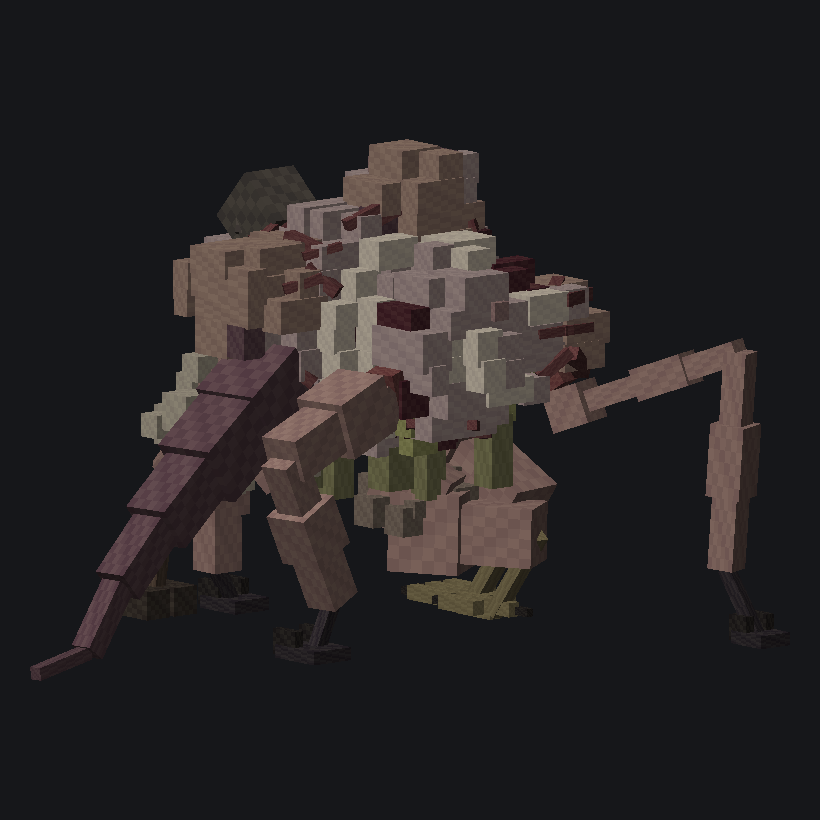
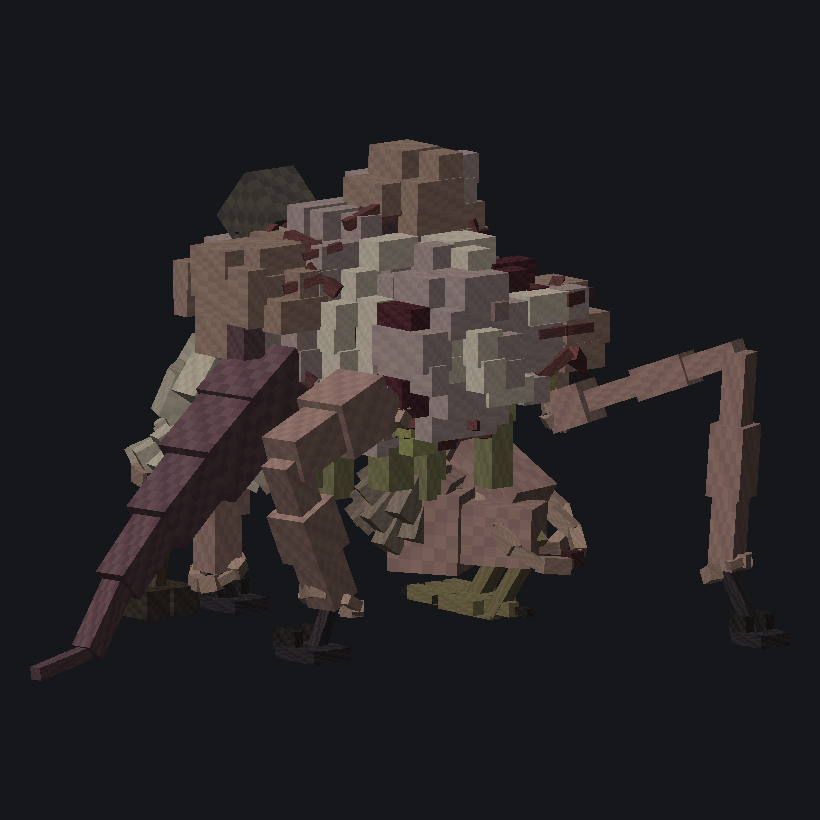
异变缝合兽：腿毛重做成有毛流的排列 + 缝上去的疤
用户看图的评价："腿毛看着好乱，没有规律"、"这么秃"、"缺点疤痕之类的"。三条都对。

**毛流。** 第一版把毛做成随机撒在柱面上的小方块——那是碎石不是毛。真实的毛有两条结构：
每一根顺着肢体往远端躺（外加一点翘起才离得开皮），并且一圈一圈往下排、相邻两圈错开
半个间距像瓦片互相压住。所以改成沿轴向的短柱、按环排布，抖动只动长度和翘角，不动排布。
规律感来自交错的环，不来自随机。

**秃。** 覆盖范围和密度都提了：兽毛 4 环 × 7 束一直盖到掌骨，羊毛 4×8 又粗又密结成团，
猪鬃 5×4 又稀又硬又长，禽的覆羽 3×7 只到大腿（跗跖骨本来就是裸鳞）。

**疤。** 位置不是画的：接合痕在挂载点那一圈，**交界痕在本体新肉与供体组织的分界上**
——那个分界材质表早就算过了（`Limb.mats` 里 graft 变成 hide/scute/chitin 的那一节），
肉长到哪儿为止，痕就在哪儿。做法沿用核心那身癒合痕的读法：不是外科缝合，没有线没有
等距横扣，粗细逐段变、约一成断开（融合彻底处无痕）、偶尔堆一个肉瘤。

另修：肢上的肉瘤原本也叫 `wart_`，和核心的撞了前缀，站高自检把腿上的疤当成核心底面，
误报"核心压到地面"。改叫 `snarl_`。块数预算 760 → 900（毛和疤是这一轮加的）。

seed 1–12 十二只十项自检全过。力学层（limbs / locomotion / genome）本次未动，
check_gait 12/12 与 check_limbs 40 条承重肢的结果沿用上一轮。

Model: claude-opus-5

diff --git a/scripts/models/stitched_beast/gen_beast.py b/scripts/models/stitched_beast/gen_beast.py
@@ -77,13 +77,6 @@ def part_limbs(rig: Rig, limbs: dict[str, LB.Limb]) -> int:
     for lb in limbs.values():
         s = lb.sock
         base = f"limb_{s.name}_0"
-        # 接合痕：皮上一圈看得见的隆起，半径由**剪切传力**所需的面积给出（一两像素）。
-        # 这里曾经画的是一个"把载荷摊开"的大癒合环（半径到 9 px），那个模型是错的——
-        # 肌肉不从接合面穿过去，接合面只传力。渲出来是几块贴在身上的板。
-        rig.shaft(base, f"weld_{s.name}",
-                  tuple(s.pos - s.normal * 0.7), tuple(s.pos + s.normal * 0.5),
-                  lb.weld_r, mat="collar")
-        n += 1
         for i, (p, q) in enumerate(zip(lb.joints, lb.joints[1:])):
             r = max(lb.radius[i], RENDER_MIN_R)
             # 肌腹是**纺锤形**的：算出来的那个半径是所需生理横截面的**峰值**，出现在
@@ -106,6 +99,7 @@ def part_limbs(rig: Rig, limbs: dict[str, LB.Limb]) -> int:
         if lb.bearing:
             n += part_foot(rig, lb)
         n += part_coat(rig, lb)
+        n += part_scars(rig, lb)
     return n
 
 
@@ -183,44 +177,102 @@ def part_foot(rig: Rig, lb: LB.Limb) -> int:
     return n
 
 
+# 各种体表的做法：(几圈, 每圈几束, 束长/半径, 束粗, 覆盖到第几节, 材质)。
+# 数量是**看得见**换来的：毛稀了在这个尺度上等于没有，用户第一眼的评价是"这么秃"。
+COAT_SPEC: dict[str, tuple[int, int, float, float, int, str]] = {
+    "fur":     (4, 7, 0.85, 0.34, 3, "fur"),      # 兽毛：细密，一直盖到掌骨
+    "wool":    (4, 8, 1.15, 0.72, 2, "wool"),     # 羊毛：又粗又密，只在上段结团
+    "bristle": (5, 4, 1.30, 0.26, 2, "bristle"),  # 猪鬃：稀、硬、长
+    "plume":   (3, 7, 1.05, 0.52, 1, "plume"),    # 禽的覆羽：只到大腿，跗跖骨是裸鳞
+}
+
+
 def part_coat(rig: Rig, lb: LB.Limb) -> int:
-    """体表：毛 / 羊毛 / 鬃。**只有长毛的才加几何**——鳞、甲、皮、裸靠材质本身就够。
+    """体表：毛 / 羊毛 / 鬃 / 覆羽。**只有长毛的才加几何**——鳞、甲、皮、裸靠材质就够。
 
     毛不是贴图能解决的：MC 这个尺度上"毛茸茸"读的是**轮廓**，光把颜色调浅还是一根
-    光柱子。所以沿近端两节的表面撒一圈小块，超出柱面一点点，把剪影打毛。羊毛块更大
-    更亮更密（羊腿远看是一团白），猪鬃是稀疏的短刺。
+    光柱子。但第一版把毛做成了随机撒在柱面上的小方块，用户的评价是"好乱，没有规律"
+    ——那是**碎石**不是毛。毛有两条真实结构，缺哪条都不像：
+
+    · **有毛流。** 每一根都顺着肢体往远端躺（外加一点点翘起才离得开皮），不是朝四面
+      八方戳。所以这里出的是沿轴向的短柱（`shaft`）不是方块。
+    · **成排交错。** 一圈一圈往下排，相邻两圈错开半个间距，像瓦片一样互相压住——
+      规律感来自这个，随机偏移只负责让它不呆板。
+
+    抖动只加在长度和翘角上，位置严格按环排。羊毛把束加粗加密到结团，猪鬃反过来又稀
+    又硬又长，禽的覆羽只盖到大腿（跗跖骨是裸鳞的）。
     """
     sk = lb.gene.skeleton
-    if sk is None or sk.coat not in ("fur", "wool", "bristle", "plume"):
+    if sk is None or sk.coat not in COAT_SPEC:
         return 0
-    # 块数是**看得见**换来的：毛稀了在 MC 这个尺度上等于没有（round 1 实测 8 块 0.55 的
-    # 小方块渲出来只是几个噪点，腿还是一根光柱子）。加密到轮廓真的毛了为止。
-    spec = {"fur": (15, 0.72, 1.16, "fur"), "wool": (15, 1.25, 1.42, "wool"),
-            "bristle": (9, 0.32, 1.30, "bristle"),
-            "plume": (11, 0.90, 1.18, "plume")}[sk.coat]
-    count, size, reach, mat = spec
+    rings, per, tuft, thick, span, mat = COAT_SPEC[sk.coat]
     n = 0
-    span = 1 if sk.coat == "plume" else 2      # 禽的跗跖骨是裸鳞的，覆羽只到大腿
-    for i in range(min(span, len(lb.joints) - 2)):   # 只长在近端：远端是腱和骨
+    for i in range(min(span, len(lb.joints) - 2)):
         a, b = lb.joints[i], lb.joints[i + 1]
         axis = b - a
         L = float(np.linalg.norm(axis)) or 1.0
         axis = axis / L
         t1, t2 = C._tangent_basis(axis)
         r = max(lb.radius[i], RENDER_MIN_R)
-        for k in range(count):
-            u = C._noise(lb.name, i, k, "u")
-            ang = 2 * math.pi * (k / count + 0.13 * C._noise(lb.name, i, k, "a"))
-            radial = math.cos(ang) * t1 + math.sin(ang) * t2
-            ctr = a + axis * (L * (0.12 + 0.76 * u)) + radial * (r * reach)
-            s = size * (0.7 + 0.6 * C._noise(lb.name, i, k, "s"))
-            if sk.coat == "bristle":
-                half = np.abs(radial * s * 2.2) + np.array([0.28, 0.28, 0.28])
-            else:
-                half = np.array([s, s, s])
-            rig.cube(f"limb_{lb.name}_{i}", f"coat_{lb.name}_{i}_{k}",
-                     tuple(ctr - half), tuple(ctr + half), mat=mat)
+        for ring in range(rings):
+            t = (ring + 0.6) / (rings + 0.4)
+            for k in range(per):
+                # 相邻两圈错开半个间距：瓦片式咬合，规律就是从这儿来的
+                ang = 2 * math.pi * (k + 0.5 * (ring % 2)) / per
+                radial = math.cos(ang) * t1 + math.sin(ang) * t2
+                base = a + axis * (L * t) + radial * (r * 0.82)
+                # 毛流：顺着肢体往远端躺 + 一点翘起。抖动只动长度和翘角，不动排布
+                j = C._noise(lb.name, i, ring, k, "j")
+                lay = axis * (0.80 + 0.14 * j) + radial * (0.34 + 0.22 * j)
+                lay /= float(np.linalg.norm(lay))
+                tip = base + lay * (r * tuft * (0.75 + 0.5 * j))
+                rig.shaft(f"limb_{lb.name}_{i}", f"coat_{lb.name}_{i}_{ring}_{k}",
+                          tuple(base), tuple(tip), max(thick * r * 0.6, 0.32), mat=mat)
+                n += 1
+    return n
+
+
+def part_scars(rig: Rig, lb: LB.Limb) -> int:
+    """缝上去留下的疤。**位置不是画的，是算出来的**——两处，各有各的来历：
+
+    · **接合痕**：这条肢焊在挂载点上的那一圈。
+    · **交界痕**：本体新长的肉与供体原有组织的分界。那个分界点材质表已经算过了
+      （`Limb.mats` 里 graft 变成 hide/scute/chitin 的那一节），疤就长在那儿——
+      肉长到哪儿为止，痕就在哪儿。
+
+    做法沿用核心那身癒合痕的读法（`gen_core.part_welds`）：**不是外科缝合**，没有线、
+    没有等距横扣，是自体融合留下的不规则隆起——粗细逐段变、约一成断开（融合彻底处
+    无痕）、偶尔堆成一个肉瘤。等粗等距的环会立刻读成焊接件。
+    """
+    n = 0
+    rings = [(0, lb.weld_r * 1.15)]
+    for i in range(1, len(lb.mats)):
+        if lb.mats[i] != lb.mats[i - 1]:
+            rings.append((i, max(lb.radius[i - 1], lb.radius[i]) * 1.12))
+    for i, rad in rings:
+        p = lb.joints[i]
+        axis = lb.joints[min(i + 1, len(lb.joints) - 1)] - p
+        na = float(np.linalg.norm(axis))
+        if na < 1e-6:
+            continue
+        axis /= na
+        t1, t2 = C._tangent_basis(axis)
+        seg = 9
+        for k in range(seg):
+            if C._noise(lb.name, i, k, "gap") < 0.12:
+                continue                      # 融合彻底处直接没有痕
+            a0, a1 = 2 * math.pi * k / seg, 2 * math.pi * (k + 1.05) / seg
+            e0 = p + (math.cos(a0) * t1 + math.sin(a0) * t2) * rad
+            e1 = p + (math.cos(a1) * t1 + math.sin(a1) * t2) * rad
+            w = 0.34 + 0.30 * C._noise(lb.name, i, k, "w")
+            rig.shaft(f"limb_{lb.name}_{max(i - 1, 0)}", f"scar_{lb.name}_{i}_{k}",
+                      tuple(e0), tuple(e1), w, mat="scar")
             n += 1
+            if C._noise(lb.name, i, k, "b") < 0.11:      # 融合失控处堆出的肉瘤
+                c, s = 0.5 * (e0 + e1), w * 1.7
+                rig.cube(f"limb_{lb.name}_{max(i - 1, 0)}", f"snarl_{lb.name}_{i}_{k}",
+                         tuple(c - s), tuple(c + s), mat="weld_dark")
+                n += 1
     return n
 
 
@@ -409,8 +461,8 @@ def check(rig: Rig, gait, limbs: dict[str, LB.Limb]) -> list[str]:
     # ⑩ 块数预算
     # 预算从 560 提到 760：脚（每条 4–8 块）和毛（每条 13–15 块）是这一轮加的，都是
     # "看得见才算数"的东西。参照：拟态灰烬蛛整只约 200 块，这只兽有 6–9 条肢。
-    if len(rig.elements) > 760:
-        bad.append(f"块数 {len(rig.elements)} 超预算 760")
+    if len(rig.elements) > 900:
+        bad.append(f"块数 {len(rig.elements)} 超预算 900")
     return bad
 
 
